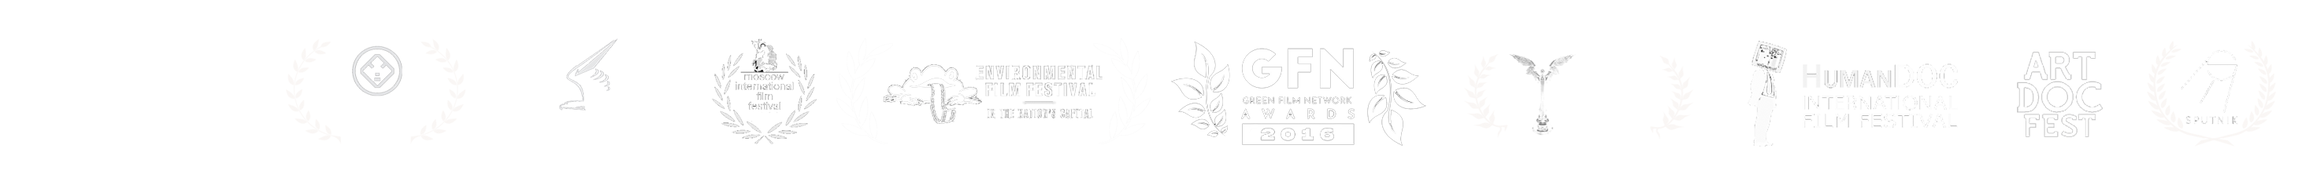
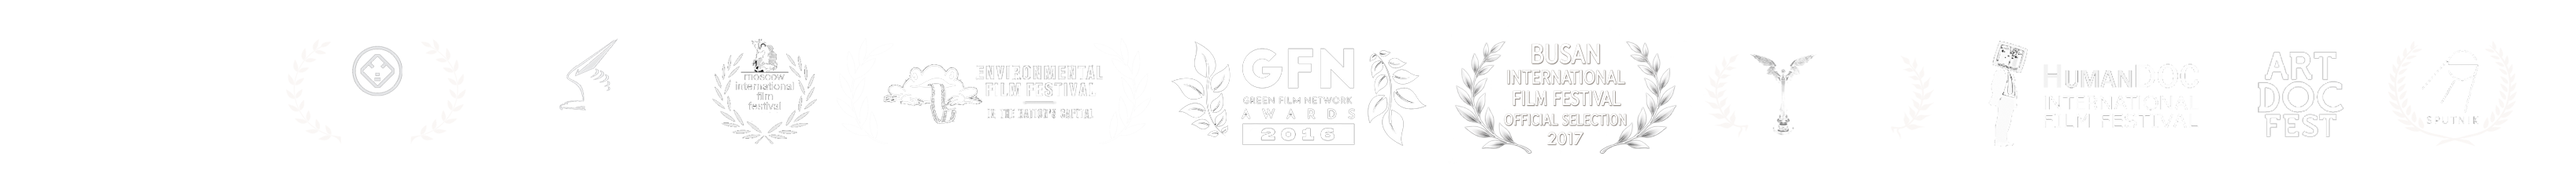
Festivals strip: new image (adds Busan IFF), much larger; readable marquee on small screens

diff --git a/index.html b/index.html
@@ -85,9 +85,19 @@ nav.hide{transform:translateY(-110%);}
 @media(max-width:600px){.hero{padding:0 20px 40px;}.hero .fc.tr,.hero .fc.bl{display:none;}.hero-tagline{font-size:clamp(24px,7vw,40px);}}
 
 /* FESTIVALS — blends into films section */
-.festivals{background:var(--black);padding:32px 48px 0;display:flex;align-items:center;justify-content:center;}
-.festivals-img img{max-height:60px;max-width:100%;width:auto;height:auto;opacity:.75;display:block;}
-@media(max-width:600px){.festivals{padding:20px 20px 0;}.festivals-img img{max-height:50px;}}
+.festivals{background:var(--black);padding:40px 48px 0;display:flex;justify-content:center;}
+.festivals-img{width:100%;max-width:1560px;}
+.festivals-img img{display:block;width:100%;height:auto;opacity:.92;}
+.festivals-img img + img{display:none;}   /* the second copy is only for the endless strip on small screens */
+@keyframes festMarquee{to{transform:translateX(-50%);}}
+@media(max-width:900px){
+  /* the strip is too long to read at the width of a phone, so it runs slowly past at a readable size */
+  .festivals{padding:26px 0 0;overflow:hidden;-webkit-mask-image:linear-gradient(to right,transparent,#000 6%,#000 94%,transparent);mask-image:linear-gradient(to right,transparent,#000 6%,#000 94%,transparent);}
+  .festivals-img{width:max-content;max-width:none;display:flex;animation:festMarquee 80s linear infinite;}
+  .festivals-img img{width:auto;height:64px;flex:none;}
+  .festivals-img img + img{display:block;}
+}
+@media(max-width:900px) and (prefers-reduced-motion:reduce){.festivals{overflow-x:auto;}.festivals-img{animation:none;}.festivals-img img + img{display:none;}}
 
 /* SEC HEAD */
 .sec-head{padding:80px 48px 36px;display:flex;align-items:baseline;gap:20px;position:relative;}
@@ -457,7 +467,8 @@ html.intro-pending #intro{display:flex;animation:introFailsafe .01s linear 6s fo
 <!-- FESTIVALS -->
 <div class="festivals">
   <div class="festivals-img">
-    <img src="img/FESTIVALS.png" alt="Film festival laurels">
+    <img src="img/FESTIVALS.png" alt="Festival laurels: Berlinale, Flahertiana, Golden Eagle, Moscow IFF, Environmental Film Festival, GFN Awards, Busan IFF, NIKA, HumanDOC, Art Doc Fest, Sputnik">
+    <img src="img/FESTIVALS.png" alt="" aria-hidden="true">
   </div>
 </div>
 
